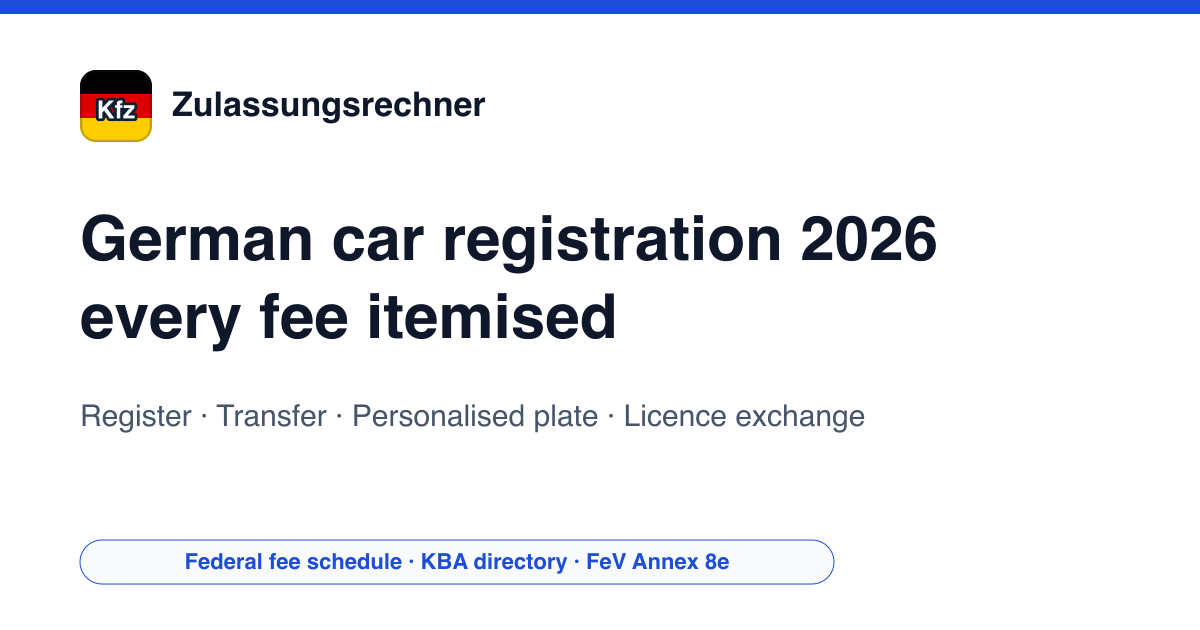
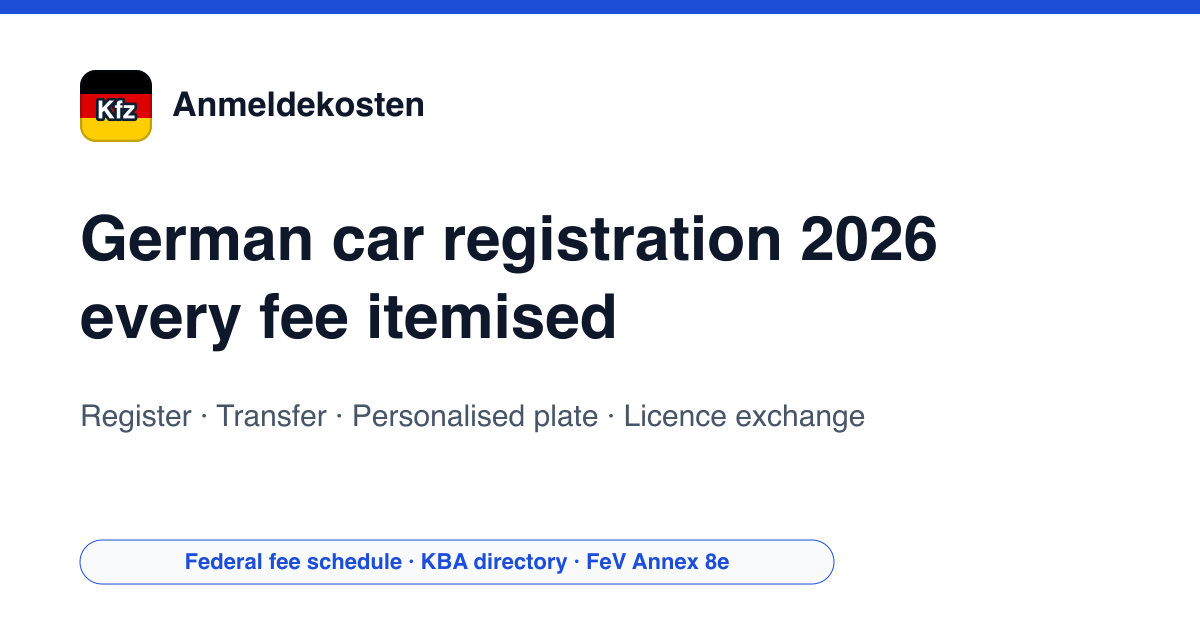
Renommage : de-zulassungsstelle devient anmeldekosten.de (marque : Zulassungsrechner=Anmeldekosten)
Domaine acheté le 2026-10-23 ; adresse, contact, robots, llms et images de partage mis à jour.

Changed region(s): [[0.1233, 0.1508, 0.4008, 0.2111]]

diff --git a/src/data/site-config.ts b/src/data/site-config.ts
@@ -1,6 +1,6 @@
 /** Configuration centrale du site (générée par new-site.py). */
-export const SITE_URL = "https://de-zulassungsstelle.example";
-export const SITE_NAMES: Record<string, string> = {"de": "Zulassungsrechner", "en": "Zulassungsrechner"};
+export const SITE_URL = "https://anmeldekosten.de";
+export const SITE_NAMES: Record<string, string> = {"de": "Anmeldekosten", "en": "Anmeldekosten"};
 export const LANG_TAGS: Record<string, string> = {"de": "de-DE", "en": "en-DE"};
 export const OG_LOCALES: Record<string, string> = {"de": "de_DE", "en": "en_GB"};
 /** Une locale par langue (RECETTE §4) : l'anglais écrit « €1,234 », l'allemand « 1.234 € ». */
@@ -20,7 +20,7 @@ export const AUTHOR_DESC: Record<string, string> = {"de": "Radif Partners zerleg
  *  themes reellement traites par le site, pas une liste de mots-cles : un sujet
  *  declare ici sans page qui le couvre est une declaration fausse. */
 export const KNOWS_ABOUT: Record<string, string[]> = {"de": ["Gebührenordnung für Maßnahmen im Straßenverkehr (GebOSt), Abschnitt Zulassung", "Fahrzeug-Zulassungsverordnung: Kennzeichenarten und Unterscheidungszeichen", "Internetbasierte Fahrzeugzulassung (i-Kfz)", "Pflichtumtausch des Führerscheins nach Anlage 8e FeV"], "en": ["German road traffic fee schedule (GebOSt), registration section", "Vehicle Registration Ordinance: plate types and district codes", "Online vehicle registration in Germany (i-Kfz)", "Mandatory driving licence exchange under Annex 8e FeV"]};
-export const CONTACT_EMAIL = "kontakt@de-zulassungsstelle.example";
+export const CONTACT_EMAIL = "kontakt@anmeldekosten.de";
 export const THEME_COLOR = '#1D4ED8';
 export const LOGO_SYMBOL = 'Kfz';
 export const BING_VERIFY_CODE = '';
